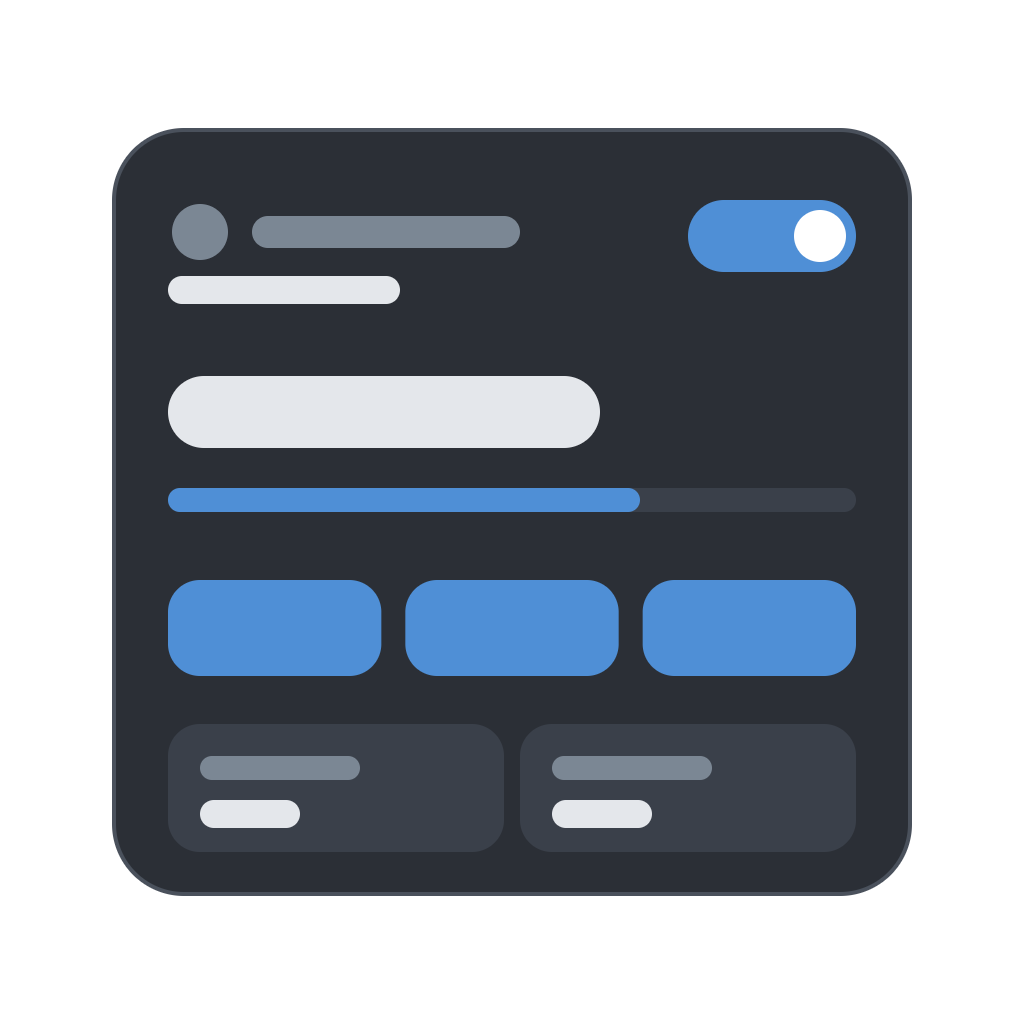
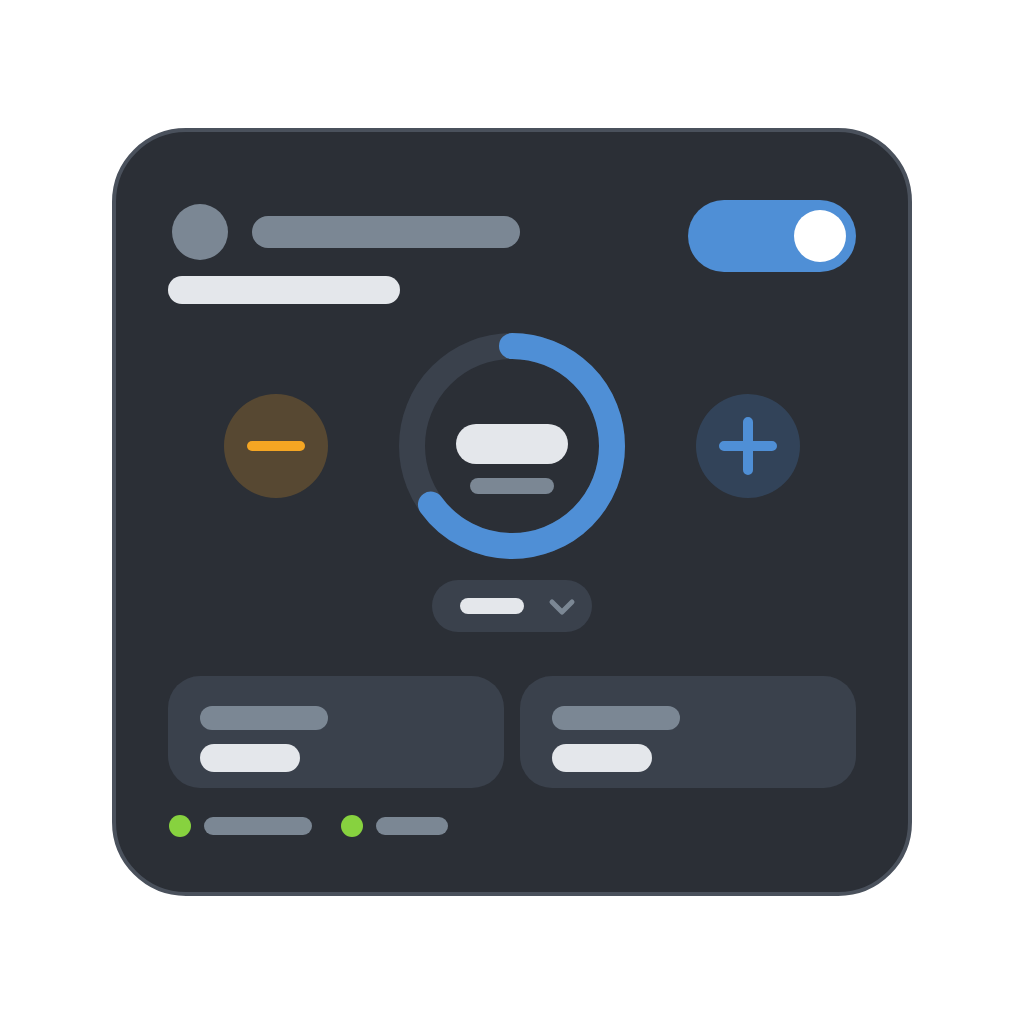
Release 0.1.1 with new widget previews
- Redraw the widget preview images to match the current design, with
  SVG sources in docs/
- Bump the version to 0.1.1 and add its changelog entry
- Ignore .DS_Store and document how the images are regenerated

Changed region(s): [[0.1562, 0.3125, 0.8438, 0.8125], [0.6562, 0.375, 0.7812, 0.5]]

diff --git a/docs/publishing.md b/docs/publishing.md
@@ -19,6 +19,7 @@ Maintainer checklist. Publishing is done by a person with a Homey developer acco
 | Store text | `README.txt` (English, required) and `README.<language>.txt`. Plain text, no Markdown. |
 | Images | `assets/images/{small,large,xlarge}.png` (250×175, 500×350, 1000×700), made from `docs/promo.svg` |
 | App icon | `assets/icon.svg` |
+| Widget previews | `widgets/barnemodus/preview-{light,dark}.png` (1024×1024, transparent corners), made from `docs/widget-preview-{light,dark}.svg` |
 | What's new | `.homeychangelog.json`, keyed by version |
 
 `README.md` is for GitHub only and is not shipped; `.homeyignore` keeps the repository files out of the app bundle.
@@ -46,3 +47,14 @@ Add an entry for the new version to `.homeychangelog.json`, commit, and run `hom
 - **Brand names.** The app name does not contain a TV brand, and the store text says it is not affiliated with LG Electronics. Keep it that way when adding drivers: the app name stays generic, and brands appear only in the description of what is supported.
 - **Privacy.** The app talks only to the TV on the local network and sends nothing elsewhere. Say so in the store text if that ever changes.
 - **Settings are not migrated by Homey.** If you change the stored settings shape, migrate it in `migrateSavedSettings` (see `lib/controller.ts`), as was done when drivers were introduced.
+
+## Regenerating images
+
+The PNGs are rendered from the SVG sources in `docs/` with headless Chrome. Redo them when the widget or the logo changes, for example:
+
+```sh
+chrome --headless=new --hide-scrollbars --default-background-color=00000000 --window-size=1024,1024 \
+  --screenshot=widgets/barnemodus/preview-light.png file:///path/to/page-showing-the-svg.html
+```
+
+Keep the corners transparent and the size at 1024×1024 for the widget previews; the store images are 250×175, 500×350 and 1000×700.
